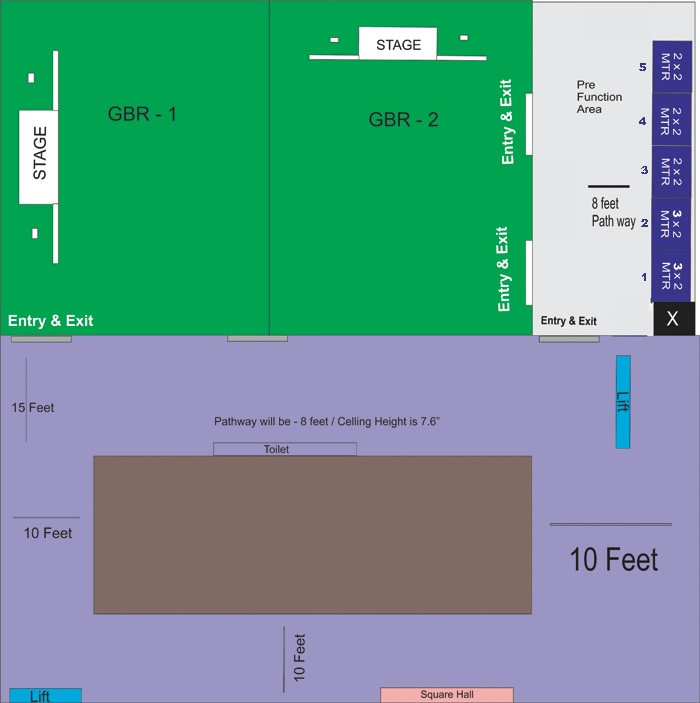
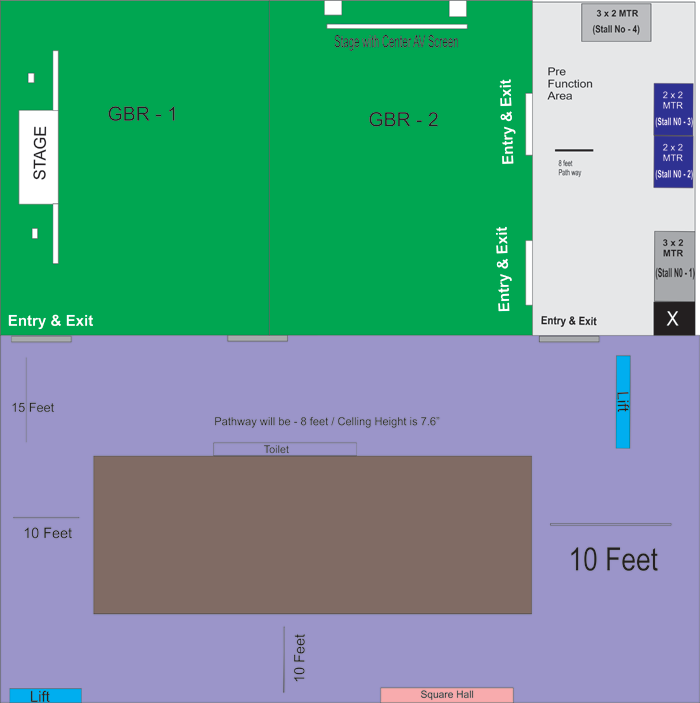
updated the stall layout also pushed the registration dates

diff --git a/index.html b/index.html
@@ -415,19 +415,19 @@
                                     </tr>
                                     <tr>
                                         <td>4. Regular</td>
-                                        <td>August 1st</td>
+                                        <td>August 15th</td>
                                         <td>100</td>
                                         <td>7,000 Rs.</td>
                                     </tr>
                                     <tr>
                                         <td>5. Late</td>
-                                        <td>August 15th</td>
+                                        <td>Sep 15th</td>
                                         <td>75</td>
                                         <td>10,000 Rs.</td>
                                     </tr>
                                     <tr>
                                         <td>6. Last Minute</td>
-                                        <td>Sep 15th</td>
+                                        <td>Oct 1st</td>
                                         <td>50</td>
                                         <td>15,000 Rs.</td>
                                     </tr>
